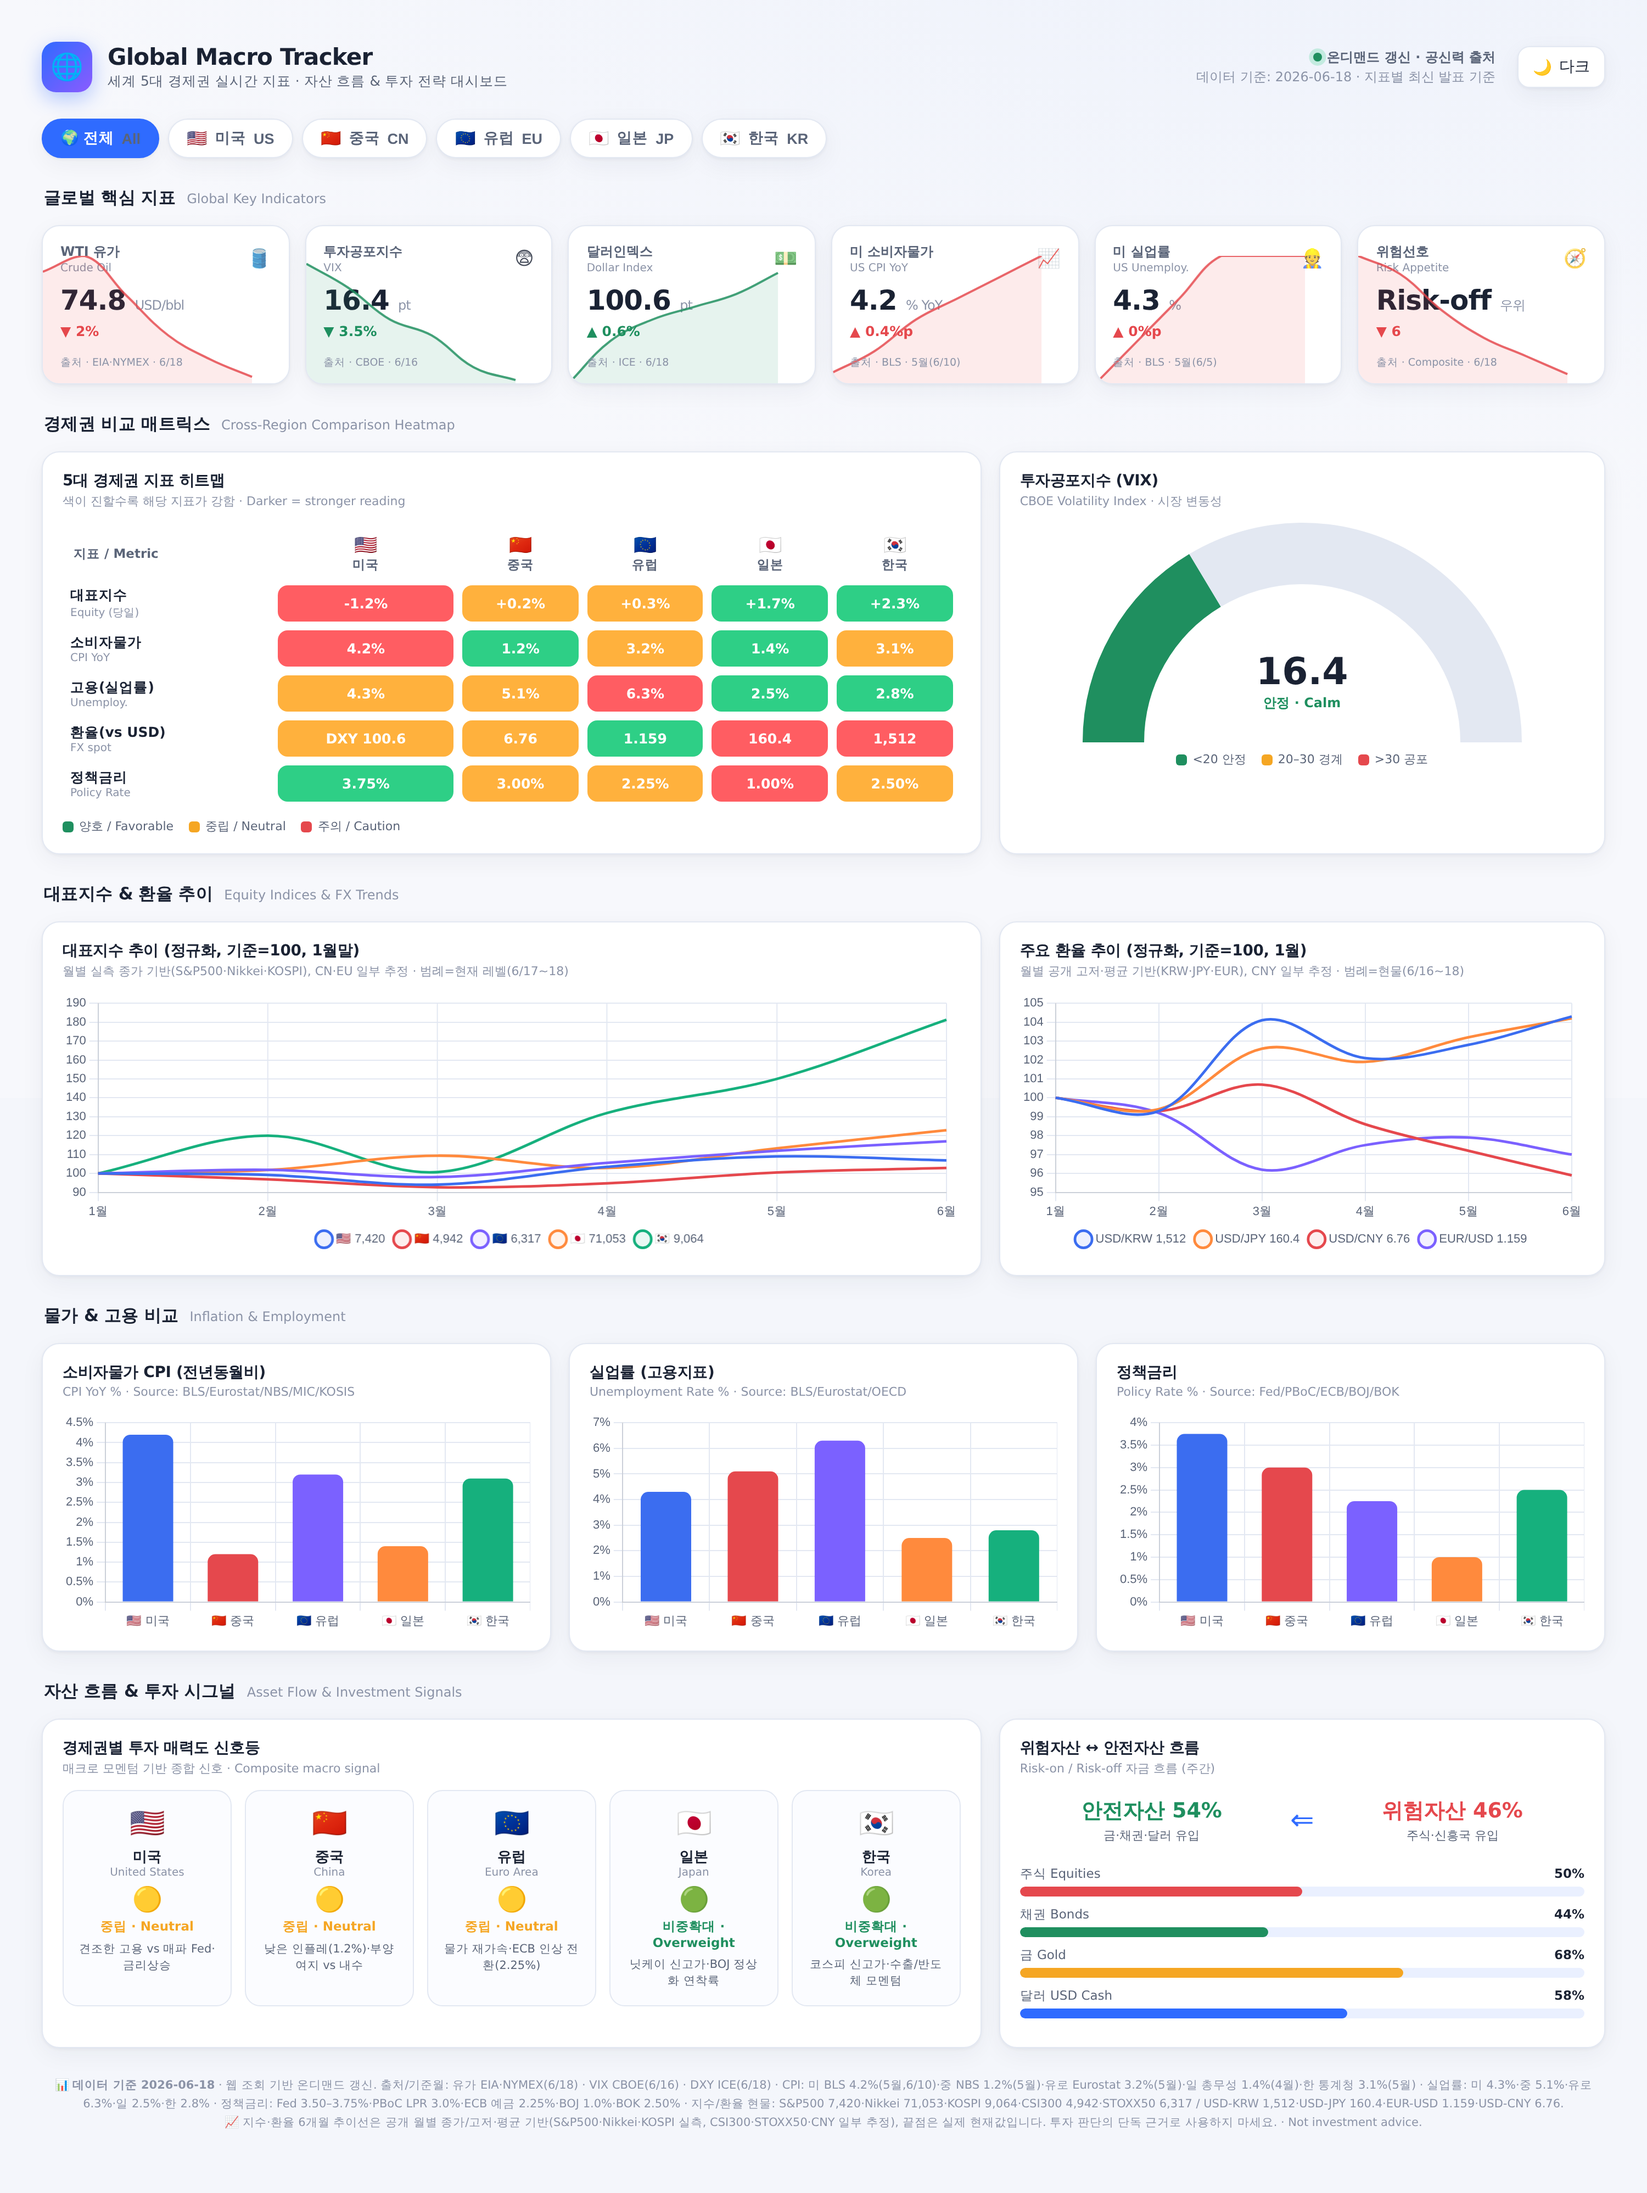
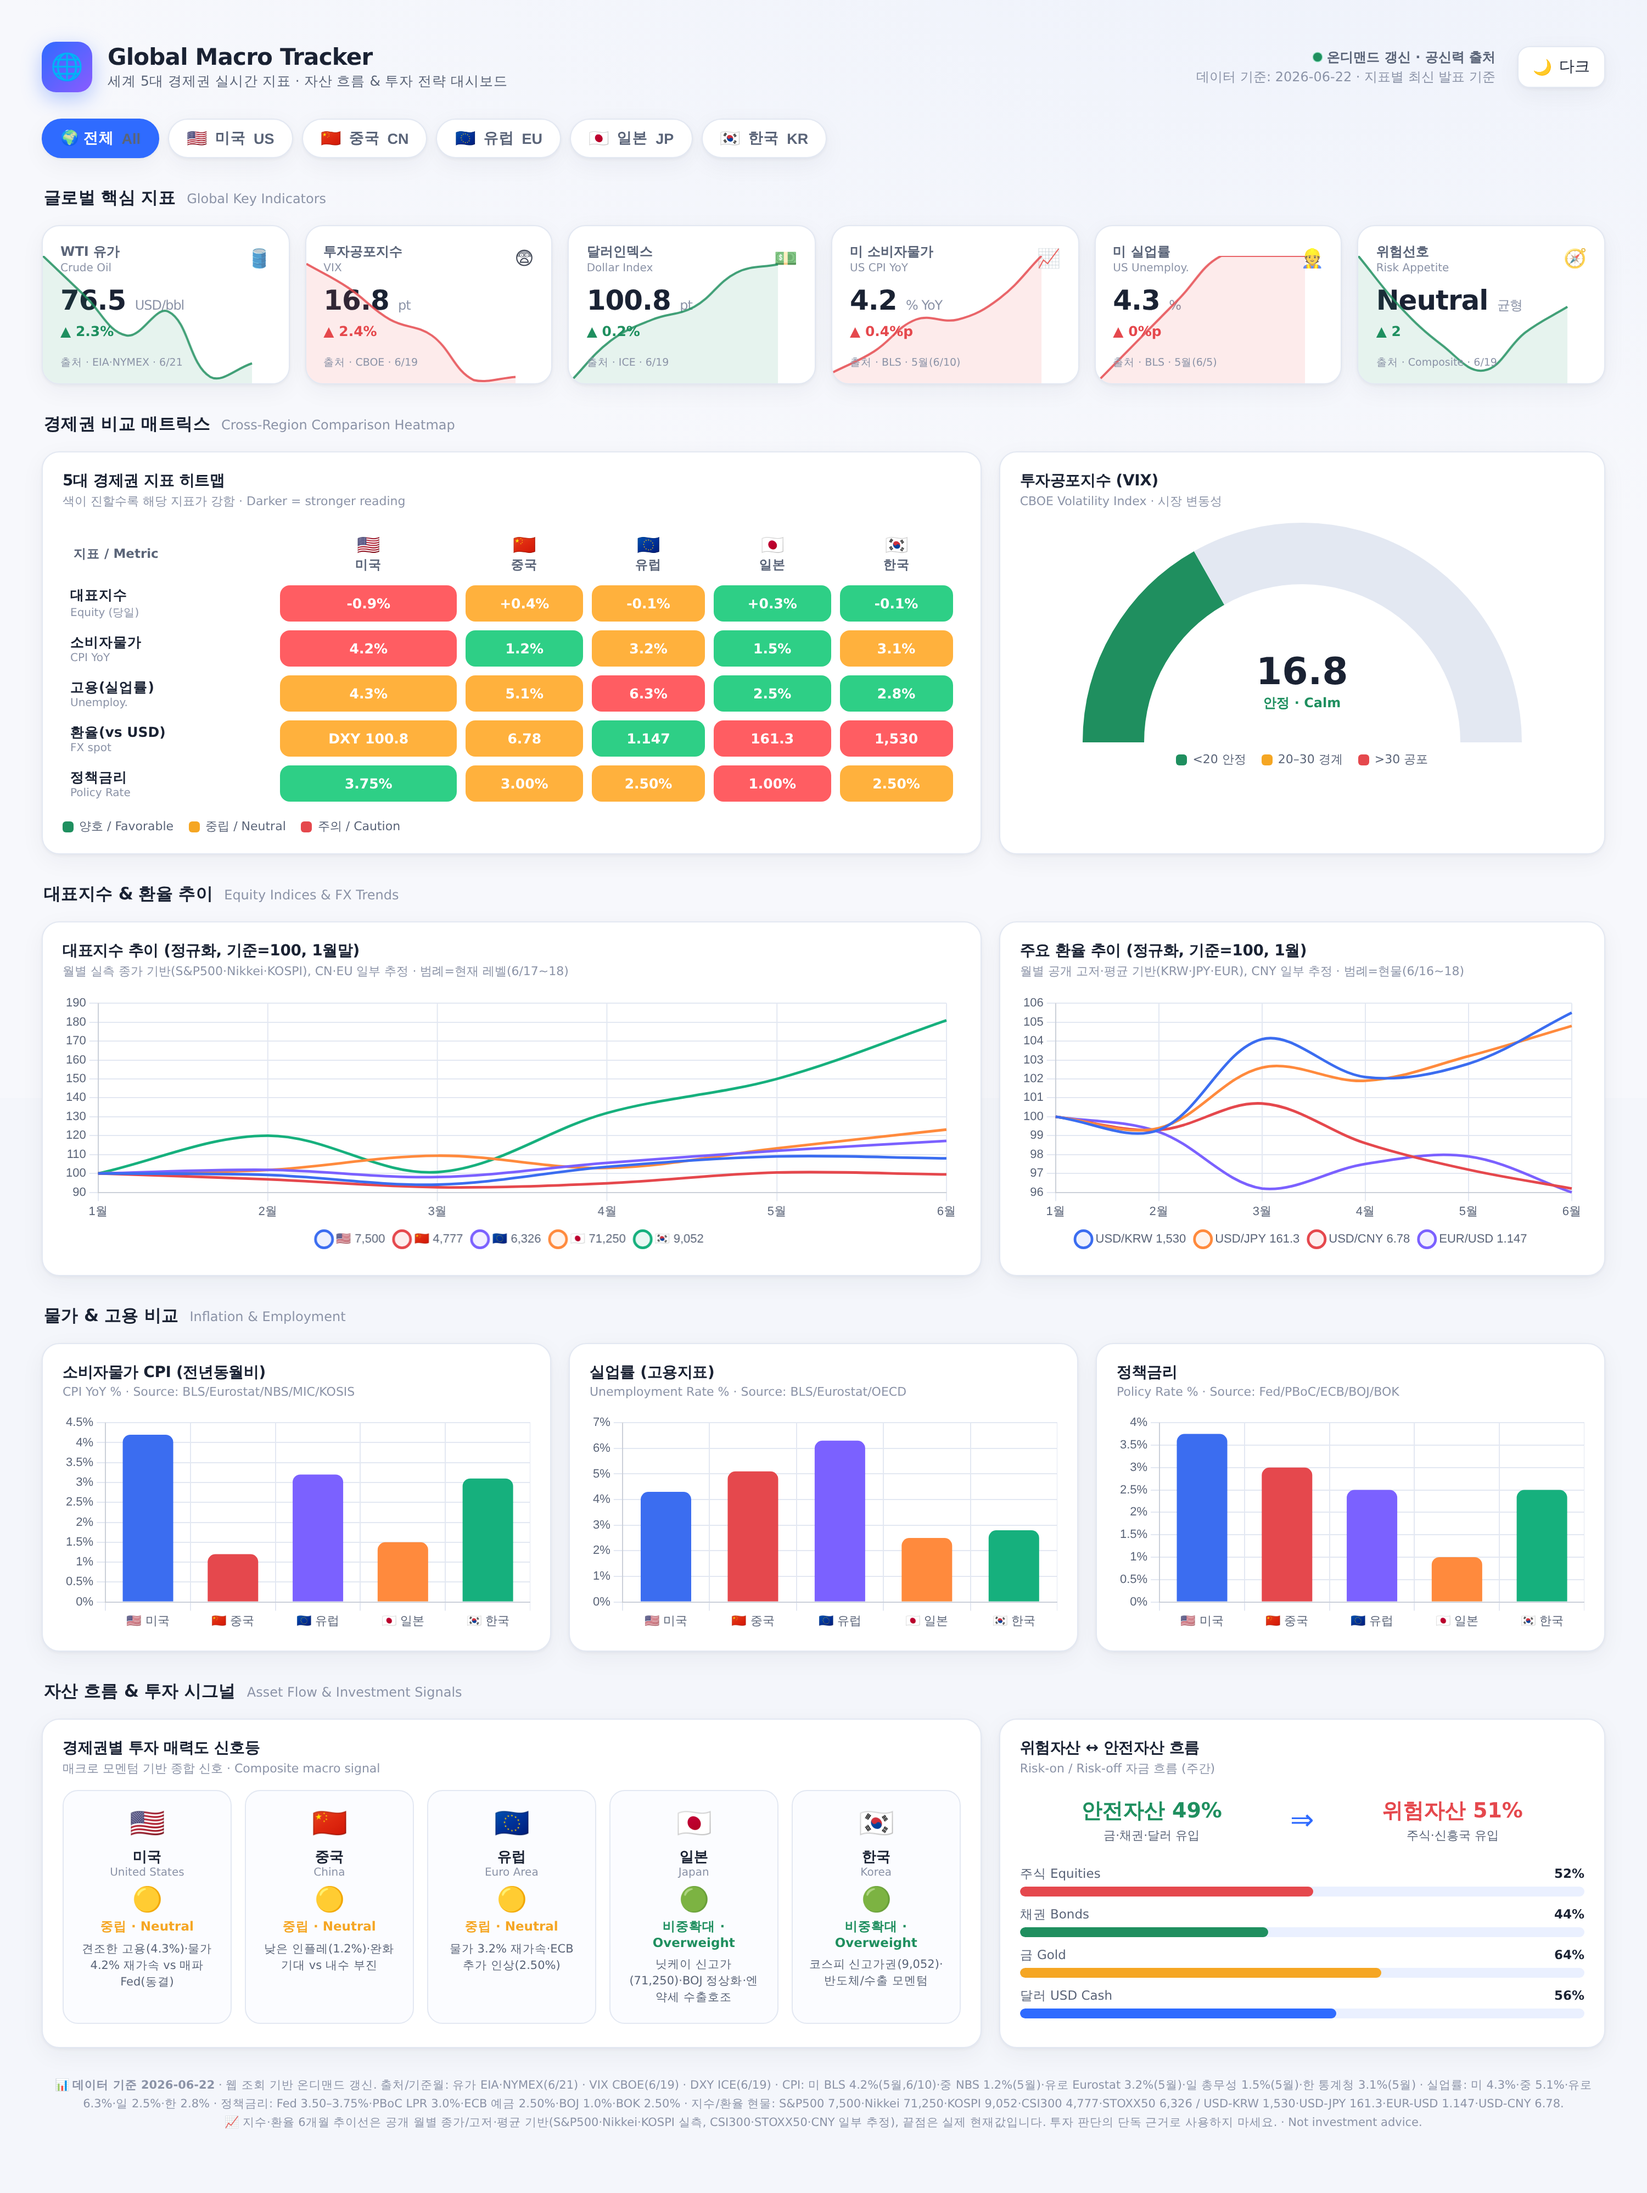
data: 대시보드 2026-06-22 기준 최신 공신력 데이터 갱신
- KPI: WTI 76.5(EIA 6/21), VIX 16.8(CBOE 6/19), DXY 100.8(ICE 6/19),
  미 CPI 4.2%(5월), 미 실업률 4.3%(5월), 위험선호 Neutral로 조정
- 지수 현물: S&P500 7,500 · Nikkei 71,250 · KOSPI 9,052 · CSI300 4,777 · STOXX50 6,326
- 환율 현물: USD/KRW 1,530 · USD/JPY 161.3 · EUR/USD 1.147 · USD/CNY 6.78
- 정책금리: ECB 추가 인상 반영(2.25%→2.50%), 그 외 동결
- CPI: 일본 1.4%→1.5%(5월), 유로 3.2% 재가속 반영
- 히트맵/시그널/자금흐름 및 헤더·푸터 기준일(6/22) 갱신
- mockup-dark/light.png 재렌더링(콘솔 에러 0)

Claude-Session: https://claude.ai/code/session_01NA5B26sXTQoqTy3d2h4nd3

diff --git a/index.html b/index.html
@@ -213,7 +213,7 @@
     <div class="spacer"></div>
     <div class="updated">
       <div><span class="live-dot"></span><b>온디맨드 갱신 · 공신력 출처</b></div>
-      <div id="updated-time">데이터 기준: 2026-06-18 · 지표별 최신 발표 기준</div>
+      <div id="updated-time">데이터 기준: 2026-06-22 · 지표별 최신 발표 기준</div>
     </div>
     <button class="theme-toggle" id="themeBtn">🌙 <span id="themeLabel">다크</span></button>
   </header>
@@ -329,12 +329,12 @@
   </div>
 
   <div class="footnote">
-    📊 <b>데이터 기준 2026-06-18</b> · 웹 조회 기반 온디맨드 갱신. 출처/기준월:
-    유가 EIA·NYMEX(6/18) · VIX CBOE(6/16) · DXY ICE(6/18) ·
-    CPI: 미 BLS 4.2%(5월,6/10)·중 NBS 1.2%(5월)·유로 Eurostat 3.2%(5월)·일 총무성 1.4%(4월)·한 통계청 3.1%(5월) ·
+    📊 <b>데이터 기준 2026-06-22</b> · 웹 조회 기반 온디맨드 갱신. 출처/기준월:
+    유가 EIA·NYMEX(6/21) · VIX CBOE(6/19) · DXY ICE(6/19) ·
+    CPI: 미 BLS 4.2%(5월,6/10)·중 NBS 1.2%(5월)·유로 Eurostat 3.2%(5월)·일 총무성 1.5%(5월)·한 통계청 3.1%(5월) ·
     실업률: 미 4.3%·중 5.1%·유로 6.3%·일 2.5%·한 2.8% ·
-    정책금리: Fed 3.50–3.75%·PBoC LPR 3.0%·ECB 예금 2.25%·BOJ 1.0%·BOK 2.50% ·
-    지수/환율 현물: S&amp;P500 7,420·Nikkei 71,053·KOSPI 9,064·CSI300 4,942·STOXX50 6,317 / USD-KRW 1,512·USD-JPY 160.4·EUR-USD 1.159·USD-CNY 6.76.<br/>
+    정책금리: Fed 3.50–3.75%·PBoC LPR 3.0%·ECB 예금 2.50%·BOJ 1.0%·BOK 2.50% ·
+    지수/환율 현물: S&amp;P500 7,500·Nikkei 71,250·KOSPI 9,052·CSI300 4,777·STOXX50 6,326 / USD-KRW 1,530·USD-JPY 161.3·EUR-USD 1.147·USD-CNY 6.78.<br/>
     📈 지수·환율 6개월 추이선은 공개 월별 종가/고저·평균 기반(S&amp;P500·Nikkei·KOSPI 실측, CSI300·STOXX50·CNY 일부 추정), 끝점은 실제 현재값입니다. 투자 판단의 단독 근거로 사용하지 마세요. · Not investment advice.
   </div>
 </div>
@@ -358,72 +358,72 @@ const REGIONS = {
 const DATA = {
   // 글로벌 KPI 카드 — 2026-06 공신력 출처 실측치
   kpi: [
-    { id:'wti',  label:'WTI 유가',     en:'Crude Oil',     icon:'🛢', val:'74.8', unit:'USD/bbl', chg:-2.0, src:'EIA·NYMEX · 6/18',
-      spark:[88,90,85,80,77,74.8] },
-    { id:'vix',  label:'투자공포지수',  en:'VIX',           icon:'😨', val:'16.4', unit:'pt', chg:-3.5, src:'CBOE · 6/16', invert:true,
-      spark:[31,28,24,22,18,16.4] },
-    { id:'dxy',  label:'달러인덱스',    en:'Dollar Index',  icon:'💵', val:'100.6',unit:'pt', chg:+0.6, src:'ICE · 6/18',
-      spark:[98,99,99.5,99.8,100.1,100.6] },
+    { id:'wti',  label:'WTI 유가',     en:'Crude Oil',     icon:'🛢', val:'76.5', unit:'USD/bbl', chg:+2.3, src:'EIA·NYMEX · 6/21',
+      spark:[90,85,80,83,74.8,76.5] },
+    { id:'vix',  label:'투자공포지수',  en:'VIX',           icon:'😨', val:'16.8', unit:'pt', chg:+2.4, src:'CBOE · 6/19', invert:true,
+      spark:[31,28,24,22,16.4,16.8] },
+    { id:'dxy',  label:'달러인덱스',    en:'Dollar Index',  icon:'💵', val:'100.8',unit:'pt', chg:+0.2, src:'ICE · 6/19',
+      spark:[98,99,99.5,99.8,100.6,100.8] },
     { id:'cpi',  label:'미 소비자물가', en:'US CPI YoY',    icon:'📈', val:'4.2', unit:'% YoY', chg:+0.4, src:'BLS · 5월(6/10)', invert:true,
-      spark:[3.1,3.3,3.6,3.8,4.0,4.2] },
+      spark:[3.1,3.3,3.6,3.6,3.8,4.2] },
     { id:'emp',  label:'미 실업률',     en:'US Unemploy.',  icon:'👷', val:'4.3', unit:'%', chg:0.0, src:'BLS · 5월(6/5)', invert:true,
       spark:[4.0,4.1,4.2,4.3,4.3,4.3] },
-    { id:'risk', label:'위험선호',      en:'Risk Appetite', icon:'🧭', val:'Risk-off',unit:'우위', chg:-6.0, src:'Composite · 6/18',
-      spark:[56,54,50,47,45,43] },
+    { id:'risk', label:'위험선호',      en:'Risk Appetite', icon:'🧭', val:'Neutral',unit:'균형', chg:+2.0, src:'Composite · 6/19',
+      spark:[54,50,47,45,48,50] },
   ],
   // 히트맵: 지표 × 경제권. score 0~100(높을수록 강/양호), d=표시값(실측)
   matrix: [
     { metric:'대표지수', en:'Equity (당일)', fmt:'%',
-      cells:{ US:{d:'-1.2%',s:35}, CN:{d:'+0.2%',s:55}, EU:{d:'+0.3%',s:57}, JP:{d:'+1.7%',s:82}, KR:{d:'+2.3%',s:88} } },
+      cells:{ US:{d:'-0.9%',s:40}, CN:{d:'+0.4%',s:58}, EU:{d:'-0.1%',s:52}, JP:{d:'+0.3%',s:78}, KR:{d:'-0.1%',s:80} } },
     { metric:'소비자물가', en:'CPI YoY', fmt:'',
-      cells:{ US:{d:'4.2%',s:35}, CN:{d:'1.2%',s:85}, EU:{d:'3.2%',s:50}, JP:{d:'1.4%',s:80}, KR:{d:'3.1%',s:52} } },
+      cells:{ US:{d:'4.2%',s:35}, CN:{d:'1.2%',s:85}, EU:{d:'3.2%',s:50}, JP:{d:'1.5%',s:78}, KR:{d:'3.1%',s:52} } },
     { metric:'고용(실업률)', en:'Unemploy.', fmt:'',
       cells:{ US:{d:'4.3%',s:68}, CN:{d:'5.1%',s:55}, EU:{d:'6.3%',s:45}, JP:{d:'2.5%',s:92}, KR:{d:'2.8%',s:88} } },
     { metric:'환율(vs USD)', en:'FX spot', fmt:'',
-      cells:{ US:{d:'DXY 100.6',s:60}, CN:{d:'6.76',s:68}, EU:{d:'1.159',s:75}, JP:{d:'160.4',s:35}, KR:{d:'1,512',s:45} } },
+      cells:{ US:{d:'DXY 100.8',s:60}, CN:{d:'6.78',s:68}, EU:{d:'1.147',s:73}, JP:{d:'161.3',s:33}, KR:{d:'1,530',s:42} } },
     { metric:'정책금리', en:'Policy Rate', fmt:'',
-      cells:{ US:{d:'3.75%',s:70}, CN:{d:'3.00%',s:62}, EU:{d:'2.25%',s:55}, JP:{d:'1.00%',s:40}, KR:{d:'2.50%',s:58} } },
+      cells:{ US:{d:'3.75%',s:70}, CN:{d:'3.00%',s:62}, EU:{d:'2.50%',s:53}, JP:{d:'1.00%',s:40}, KR:{d:'2.50%',s:58} } },
   ],
-  // 대표지수: 월별 실측 종가 기반 정규화(기준=100, 1월말). 끝값 라벨=실제 현재 레벨(6/17~18)
-  // 실측 종가: US(6939→7420) JP(57791→71053) KR(5000→9064) / CN·EU 일부 추정
+  // 대표지수: 월별 실측 종가 기반 정규화(기준=100, 1월말). 끝값 라벨=실제 현재 레벨(6/18~19)
+  // 실측 종가: US(6939→7500) JP(57791→71250) KR(5000→9052) / CN·EU 일부 추정
   indices: {
     labels: MONTHS,
-    levels: { US:'7,420', CN:'4,942', EU:'6,317', JP:'71,053', KR:'9,064' },
+    levels: { US:'7,500', CN:'4,777', EU:'6,326', JP:'71,250', KR:'9,052' },
     series: {
-      US:[100,99.2,94.1,103.5,109.0,106.9], CN:[100,96.9,92.7,94.8,100.5,102.9],
-      EU:[100,101.9,98.1,105.6,112.0,117.0], JP:[100,101.8,109.4,102.9,113.3,122.9],
-      KR:[100,120.0,100.7,132.0,150.0,181.3],
+      US:[100,99.2,94.1,103.5,109.0,108.0], CN:[100,96.9,92.7,94.8,100.5,99.5],
+      EU:[100,101.9,98.1,105.6,112.0,117.2], JP:[100,101.8,109.4,102.9,113.3,123.2],
+      KR:[100,120.0,100.7,132.0,150.0,181.0],
     }
   },
-  // 환율: 월별 정규화(기준=100, 1월). 끝값 라벨=실제 현물(6/16~18)
+  // 환율: 월별 정규화(기준=100, 1월). 끝값 라벨=실제 현물(6/19~21)
   // KRW·JPY·EUR 공개 고저/평균 기반, CNY 일부 추정
   fx: {
     labels: MONTHS,
-    levels: { 'USD/KRW':'1,512', 'USD/JPY':'160.4', 'USD/CNY':'6.76', 'EUR/USD':'1.159' },
+    levels: { 'USD/KRW':'1,530', 'USD/JPY':'161.3', 'USD/CNY':'6.78', 'EUR/USD':'1.147' },
     series: {
-      'USD/KRW':[100,99.3,104.1,102.1,102.8,104.3], 'USD/JPY':[100,99.4,102.6,101.9,103.2,104.2],
-      'USD/CNY':[100,99.3,100.7,98.6,97.2,95.9], 'EUR/USD':[100,99.2,96.2,97.5,97.9,97.0],
+      'USD/KRW':[100,99.3,104.1,102.1,102.8,105.5], 'USD/JPY':[100,99.4,102.6,101.9,103.2,104.8],
+      'USD/CNY':[100,99.3,100.7,98.6,97.2,96.2], 'EUR/USD':[100,99.2,96.2,97.5,97.9,96.0],
     }
   },
   // CPI YoY 실측 (최신 발표월)
-  cpi: { US:4.2, CN:1.2, EU:3.2, JP:1.4, KR:3.1 },
+  cpi: { US:4.2, CN:1.2, EU:3.2, JP:1.5, KR:3.1 },
   // 실업률 실측
   emp: { US:4.3, CN:5.1, EU:6.3, JP:2.5, KR:2.8 },
   // 정책금리 실측
-  rate:{ US:3.75, CN:3.00, EU:2.25, JP:1.00, KR:2.50 },
-  vix: 16.4,
+  rate:{ US:3.75, CN:3.00, EU:2.50, JP:1.00, KR:2.50 },
+  vix: 16.8,
   // 투자 시그널 신호등 — 데이터 기반 종합 판단
   signals: {
-    US:{ light:'🟡', verdict:'중립',     vEn:'Neutral',    note:'견조한 고용 vs 매파 Fed·금리상승' },
-    CN:{ light:'🟡', verdict:'중립',     vEn:'Neutral',    note:'낮은 인플레(1.2%)·부양 여지 vs 내수' },
-    EU:{ light:'🟡', verdict:'중립',     vEn:'Neutral',    note:'물가 재가속·ECB 인상 전환(2.25%)' },
-    JP:{ light:'🟢', verdict:'비중확대', vEn:'Overweight', note:'닛케이 신고가·BOJ 정상화 연착륙' },
-    KR:{ light:'🟢', verdict:'비중확대', vEn:'Overweight', note:'코스피 신고가·수출/반도체 모멘텀' },
+    US:{ light:'🟡', verdict:'중립',     vEn:'Neutral',    note:'견조한 고용(4.3%)·물가 4.2% 재가속 vs 매파 Fed(동결)' },
+    CN:{ light:'🟡', verdict:'중립',     vEn:'Neutral',    note:'낮은 인플레(1.2%)·완화 기대 vs 내수 부진' },
+    EU:{ light:'🟡', verdict:'중립',     vEn:'Neutral',    note:'물가 3.2% 재가속·ECB 추가 인상(2.50%)' },
+    JP:{ light:'🟢', verdict:'비중확대', vEn:'Overweight', note:'닛케이 신고가(71,250)·BOJ 정상화·엔약세 수출호조' },
+    KR:{ light:'🟢', verdict:'비중확대', vEn:'Overweight', note:'코스피 신고가권(9,052)·반도체/수출 모멘텀' },
   },
-  // 자산 흐름 (% 자금흐름 강도) — 매파 Fed·에너지 쇼크로 안전자산 선호
-  flow: { riskOn: 46, riskOff: 54,
-    bars:[ {k:'주식 Equities', v:50, c:'var(--up)'}, {k:'채권 Bonds', v:44, c:'var(--down)'},
-           {k:'금 Gold', v:68, c:'var(--warn)'}, {k:'달러 USD Cash', v:58, c:'var(--accent)'} ] }
+  // 자산 흐름 (% 자금흐름 강도) — 중동 휴전 기대로 위험선호 일부 회복 vs 매파 Fed·물가
+  flow: { riskOn: 51, riskOff: 49,
+    bars:[ {k:'주식 Equities', v:52, c:'var(--up)'}, {k:'채권 Bonds', v:44, c:'var(--down)'},
+           {k:'금 Gold', v:64, c:'var(--warn)'}, {k:'달러 USD Cash', v:56, c:'var(--accent)'} ] }
 };
 
 /* ===================== THEME ===================== */
